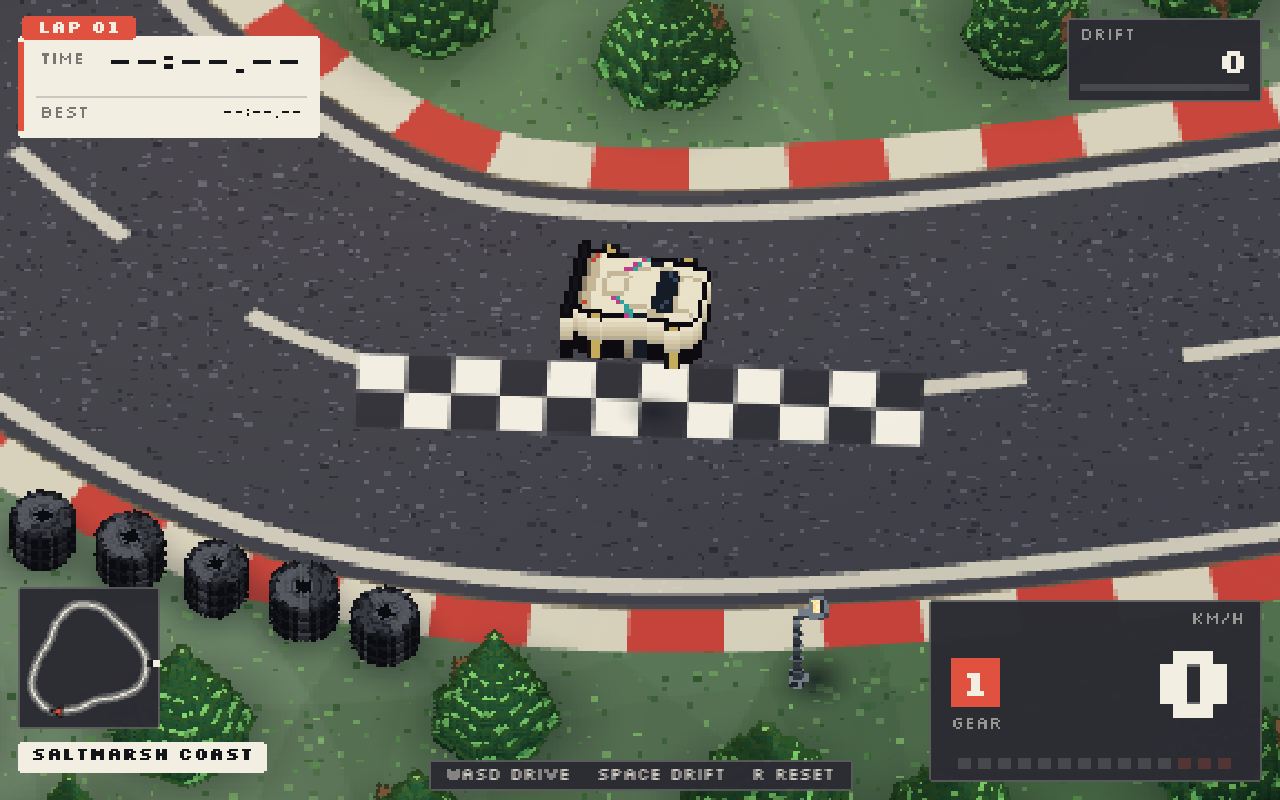
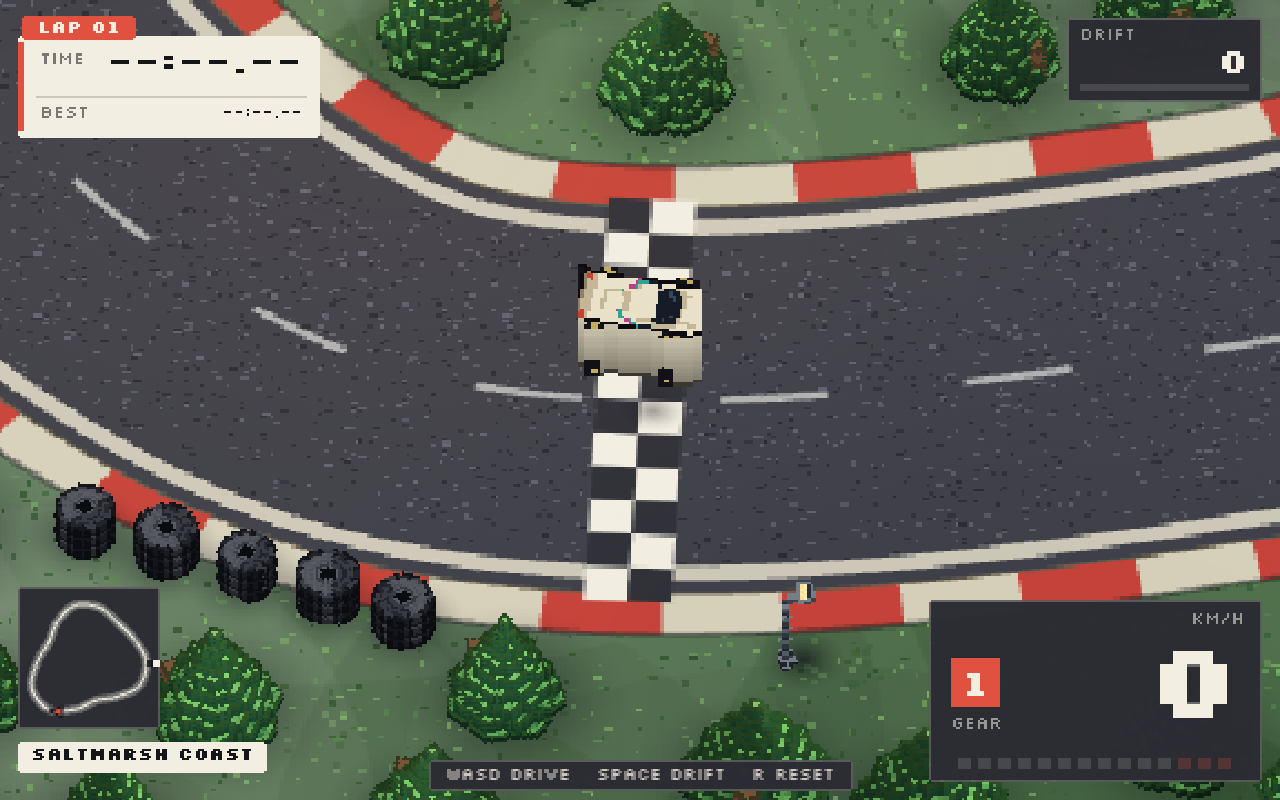
Map: proper thin centre dashes, striped kerbs, start line across the road

diff --git a/src/world.ts b/src/world.ts
@@ -255,15 +255,16 @@ function paintGround(track: P2[], map: MapDef): HTMLCanvasElement {
   for (const side of [1, -1]) {
     const edge = offsetPath(track, side * (ROAD_HALF + 0.5));
     strokePath(g, edge, map.palette.kerbA, 0.9 * PPU);
-    dotted(g, edge, map.palette.kerbB, 0.9 * PPU, 1.6 * PPU, 1.6 * PPU);
+    dotted(g, edge, map.palette.kerbB, 0.9 * PPU, 2.1 * PPU, 2.1 * PPU);
+    strokePath(g, offsetPath(track, side * (ROAD_HALF + 0.95)), 'rgba(30,30,36,0.45)', 0.12 * PPU);
   }
 
   // centre dashes
-  dotted(g, track, map.palette.line, 0.3 * PPU, 2.6 * PPU, 2.6 * PPU);
+  dotted(g, track, 'rgba(246,246,240,0.62)', 0.16 * PPU, 1.9 * PPU, 2.4 * PPU);
 
   // start / finish checker
   const s = track[300], s2 = track[303];
-  const ang = Math.atan2(s2.z - s.z, s2.x - s.x);
+  const ang = Math.atan2(s2.z - s.z, s2.x - s.x) + Math.PI * 0.5;   // start line runs ACROSS the road
   g.save();
   g.translate((s.x + HALF_G) * PPU, (s.z + HALF_G) * PPU);
   g.rotate(ang);

diff --git a/src/car.ts b/src/car.ts
@@ -38,7 +38,7 @@ export class Car {
   async setSkin(file: string) {
     const sheet = await loadSheet(`/sprites/${file}.png`);
     if (this.model) this.group.remove(this.model);
-    this.model = new DirectionalCar(sheet, 32, 2.6, 37, 42);
+    this.model = new DirectionalCar(sheet, 32, 2.2, 37, 52);
     this.group.add(this.model);
   }
 

diff --git a/src/main.ts b/src/main.ts
@@ -39,7 +39,7 @@ async function boot() {
   const camera = new THREE.OrthographicCamera(-1, 1, 1, -1, 0.1, 600);
   const PITCH = THREE.MathUtils.degToRad(50);
   const CAM_DIST = 140;
-  let viewHeight = 13;
+  let viewHeight = 14;
   let speedZoom = 1;
   let camYaw = 0;
   const focus = new THREE.Vector3(car.x, 0, car.z);

diff --git a/tools/guide_stack.py b/tools/guide_stack.py
@@ -1,0 +1,76 @@
+"""The guide's recipe, exactly, for one design.
+
+Sheet = one ROW, ground slice first, 15 slices of 24x43. Every slice is the
+same silhouette; only the top slice carries the art. Each slice is drawn 1px
+above the previous one, so the visible depth is (slices-1) px of side wall.
+Sides darken toward the ground (the guide's `shade`), and the tyres sit on the
+bottom slices, proud of the body, so they read from above.
+"""
+import argparse
+import numpy as np
+from PIL import Image
+
+W, L, SLICES = 24, 43, 15
+BODY = np.array([232, 224, 200], np.float32)
+DARK = np.array([18, 16, 22], np.float32)
+TYRE = np.array([16, 16, 22], np.float32)
+HUB = np.array([198, 170, 92], np.float32)
+SHADE = 0.32
+
+
+def main():
+    p = argparse.ArgumentParser()
+    p.add_argument("top")
+    p.add_argument("out")
+    p.add_argument("--shade", type=float, default=SHADE)
+    a = p.parse_args()
+
+    src = Image.open(a.top).convert("RGBA")
+    top = np.array(src.resize((W, L), Image.NEAREST))
+    mask = top[..., 3] > 8
+
+    ys, xs = np.nonzero(mask)
+    y0, y1, x0, x1 = ys.min(), ys.max(), xs.min(), xs.max()
+    length = y1 - y0
+
+    def wheel(cy, cx, ry=2.6, rx=1.9):
+        yy, xx = np.mgrid[0:L, 0:W]
+        return (((yy - cy) / ry) ** 2 + ((xx - cx) / rx) ** 2) <= 1.0
+
+    wheels = np.zeros((L, W), bool)
+    hubs = np.zeros((L, W), bool)
+    for ay in (y0 + length * 0.24, y0 + length * 0.76):
+        for ax in (x0 - 0.4, x1 + 0.4):
+            wheels |= wheel(ay, ax)
+            hubs |= wheel(ay, ax, 0.9, 0.7)
+
+    # the tyres are part of the silhouette so they survive every slice
+    silhouette = mask | wheels
+
+    row = np.zeros((L, W * SLICES, 4), np.uint8)
+    for z in range(SLICES):
+        sl = np.zeros((L, W, 4), np.uint8)
+        if z == SLICES - 1:
+            sl[mask] = top[mask]
+            sl[wheels & ~mask] = np.array([*TYRE, 255], np.uint8)
+            sl[hubs] = np.array([*HUB, 255], np.uint8)
+        else:
+            # guide's shade: darker as it approaches the ground
+            k = 1.0 - a.shade * (1.0 - z / (SLICES - 1)) - a.shade * 0.4
+            body = BODY * max(0.25, k)
+            sl[mask, :3] = body
+            sl[mask, 3] = 255
+            if z == 0:
+                sl[mask, :3] = body * 0.45
+            if z <= 4:
+                sl[wheels] = np.array([*TYRE, 255], np.uint8)
+                if z == 1:
+                    sl[hubs] = np.array([*HUB, 255], np.uint8)
+        row[:, z * W:(z + 1) * W] = sl
+
+    Image.fromarray(row).save(a.out)
+    print(f"{SLICES} slices of {W}x{L} -> {a.out}")
+
+
+if __name__ == "__main__":
+    main()
